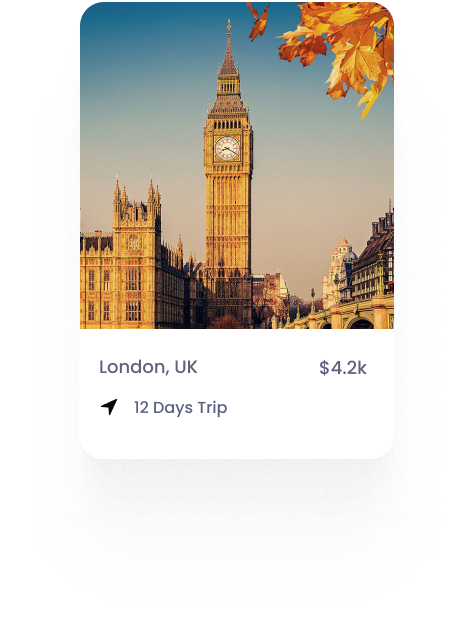
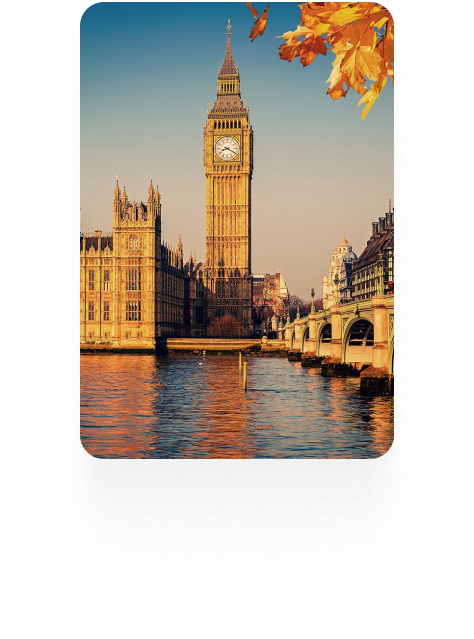
Position image and info: ok, to do organize text info

Changed region(s): [[0.1477, 0.5055, 0.8565, 0.7433]]

diff --git a/src/components/Destination/styles.module.scss b/src/components/Destination/styles.module.scss
@@ -1,0 +1,73 @@
+.container {
+  position: absolute;
+  width: 1228px;
+  height: 617px;
+  left: 173px;
+  top: 1614px;
+}
+
+.title {
+  text-align: center;
+
+  span {
+    font-family: 'Poppins', sans-serif;
+    font-weight: 600;
+    font-size: 1.125rem;
+    line-height: 1.687rem;
+
+    color: var(--blue-100);
+  }
+
+  h1 {
+    font-family: 'Volkhov', sans-serif;
+    font-weight: bold;
+    font-size: 3.125rem;
+    line-height: 4rem;
+
+    color: var(--blue-700);
+  }
+}
+
+.cards {
+  display: grid;
+  grid-template-columns: 1fr 1fr 1fr;
+  margin-top: 3.75rem;
+}
+
+.card {
+  width: 19.67rem;
+  height: 28.6rem;
+  // padding: 0.2rem;
+}
+
+
+.info {
+  background: #ffffff;
+  position: absolute;
+  width: 19.67rem;
+  height: 8.125rem;
+  margin-left: 5rem;
+  margin-top: -19.5rem;
+  border-radius: 0 0 1.5rem 1.5rem;
+  box-shadow: 0px 100px 80px rgba(0, 0, 0, 0.02), 0px 64.8148px 46.8519px rgba(0, 0, 0, 0.0151852), 0px 38.5185px 25.4815px rgba(0, 0, 0, 0.0121481), 0px 20px 13px rgba(0, 0, 0, 0.01), 0px 8.14815px 6.51852px rgba(0, 0, 0, 0.00785185), 0px 1.85185px 3.14815px rgba(0, 0, 0, 0.00481481);
+
+  display: flex;
+  // flex-direction: column;
+  // align-items: center;
+  justify-content: space-between;
+  
+
+  span {
+    margin-top: 19px;
+  }
+}
+
+
+.arial {
+  position: absolute;
+  z-index: -1;
+  width: 6rem;
+  height: 15.75rem;
+  left: 73.6875rem;
+  margin-top: 10rem;
+}

diff --git a/src/components/Destination/index.tsx b/src/components/Destination/index.tsx
@@ -43,6 +43,7 @@ export function Destination() {
             </span>
           </div>
         </div>
+        <img src="/images/arial.svg" alt="Arial" className={styles.arial}/>
       </section>
     </main>
   )
